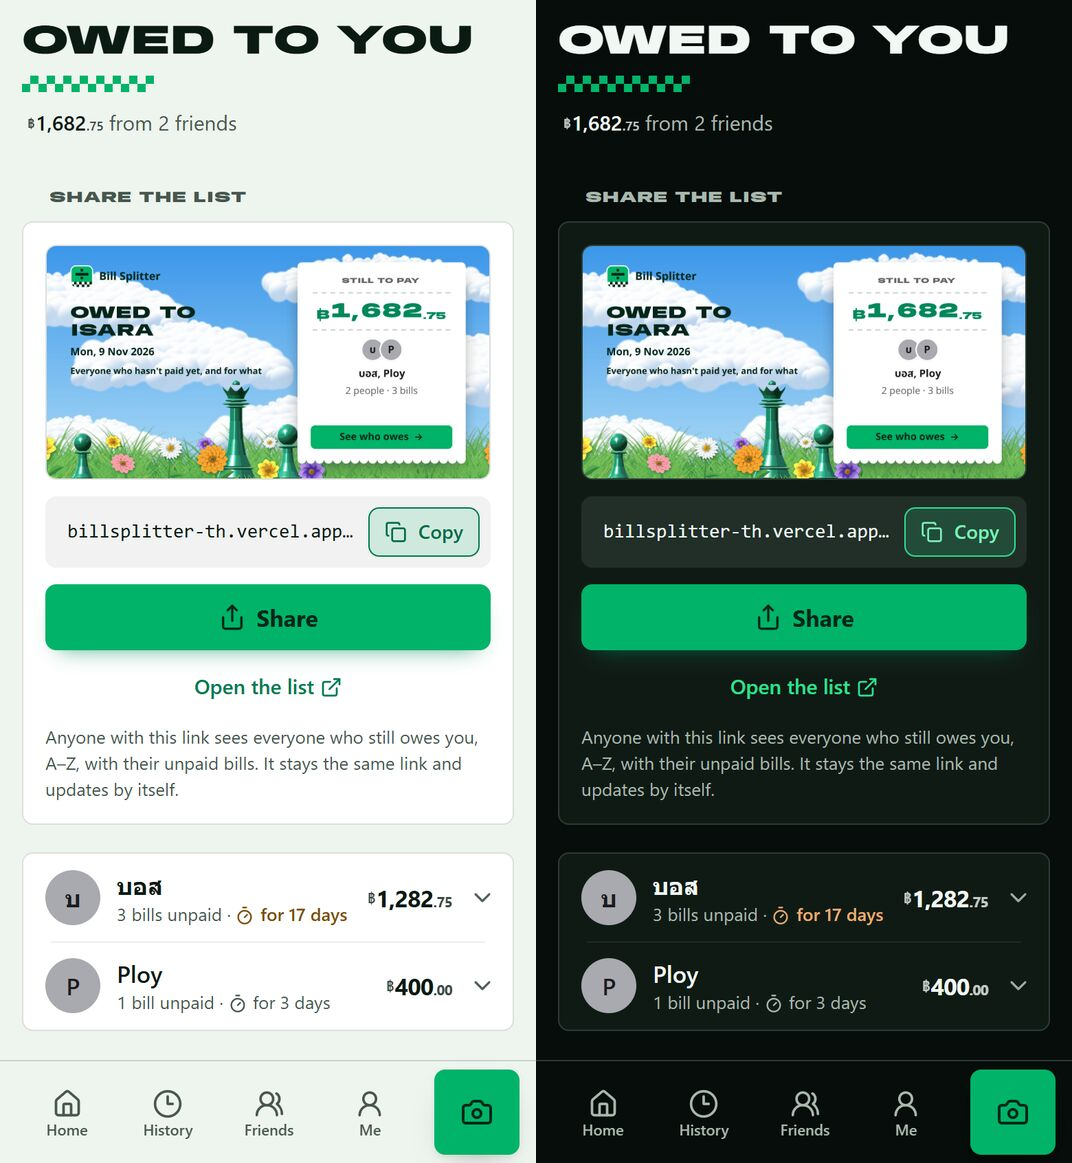
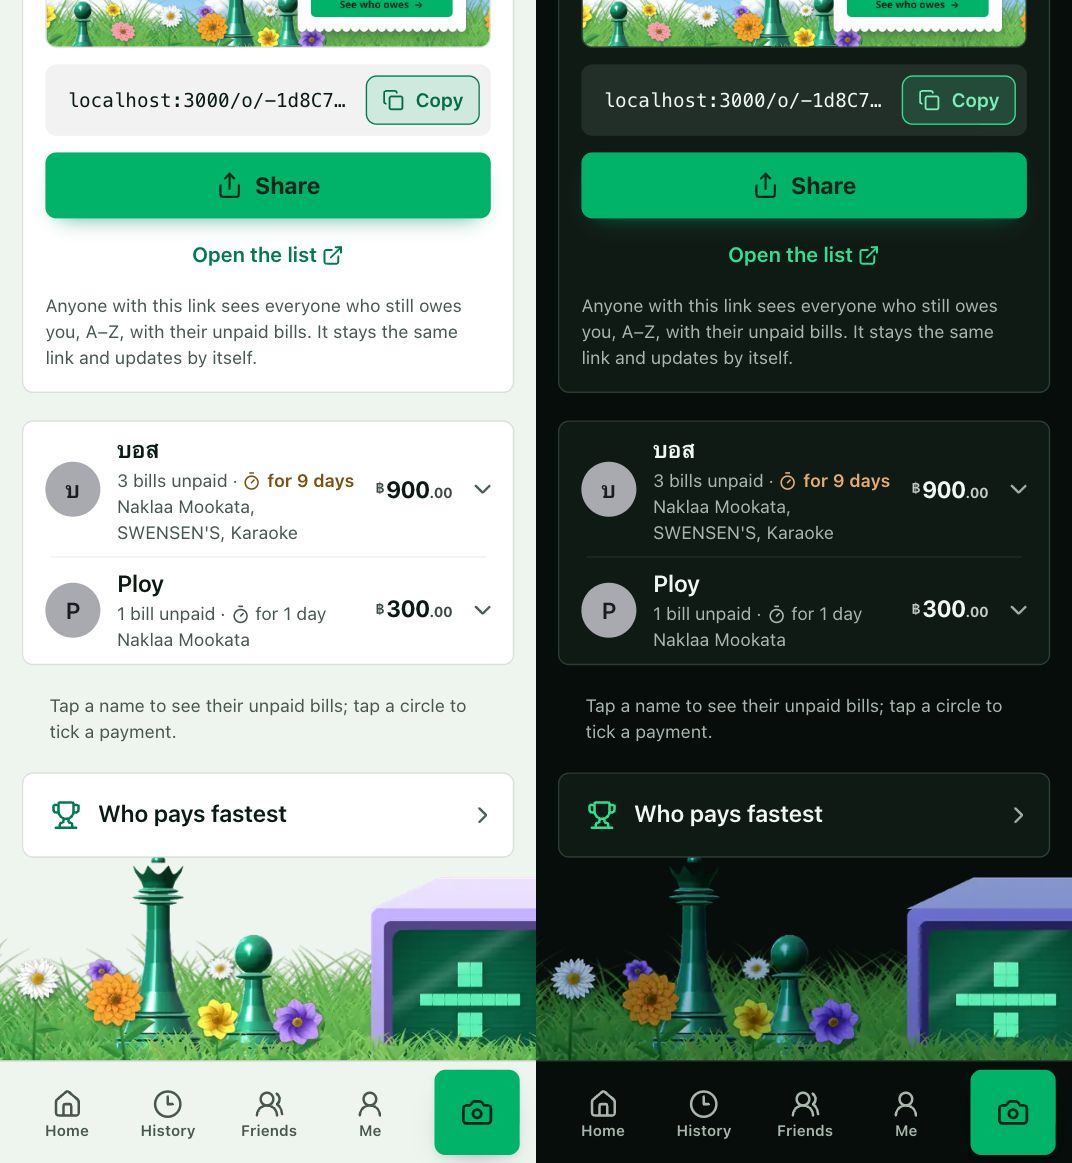
Friends: average and place in Who pays fastest; Owed to you lists bill names
- Tapping a friend (History or the Friends page) now also shows how fast
  they pay you and their place: "So far 1 day 8 hr on average · 2nd of 4
  in Who pays fastest", linking to it. New read-only
  GET /api/boards/{id}/fastest gives the ranking as data.
- Owed to you, on History's card and each friend's row, names the unpaid
  bills ("Naklaa Mookata, SWENSEN'S, Karaoke").
README and screenshots (history, friend, owed).

diff --git a/src/components/HistoryList.tsx b/src/components/HistoryList.tsx
@@ -1,15 +1,16 @@
 "use client";
 
-import { Check, CheckCircle2, ChevronRight, ReceiptText, Trash2, X } from "lucide-react";
+import { Check, CheckCircle2, ChevronRight, ReceiptText, Trash2, Trophy, X } from "lucide-react";
 import Link from "next/link";
 import { useSearchParams } from "next/navigation";
 import { useEffect, useState } from "react";
-import { byBillDate, deleteHistory, getHistory, type HistoryEntry } from "@/lib/client/storage";
+import { byBillDate, deleteHistory, getHistory, load, type HistoryEntry } from "@/lib/client/storage";
 import { askConfirm } from "@/lib/client/confirm";
 import { claimMySplits } from "@/lib/client/claim";
 import { refreshEntries } from "@/lib/client/historyRefresh";
 import { getFriends } from "@/lib/client/friendsStore";
 import { ME_ID } from "@/lib/friends";
+import { duration } from "@/lib/owed";
 import { formatMoney } from "@/lib/money";
 import { Avatar, ICON, Money, cx } from "./ui";
 import { langOf } from "@/lib/lang";
@@ -124,6 +125,7 @@ export function HistoryList() {
                 </>
               )}
             </p>
+            {person.id !== ME_ID && <FriendSpeed person={person} />}
           </div>
           <button type="button" className="icon-btn" aria-label="Show all splits" onClick={() => filterBy(null)}>
             <X size={22} {...ICON} />
@@ -306,4 +308,47 @@ function myMoney(entries: HistoryEntry[]): { spent: string[]; owedToYou: string[
 /** Same person across splits: same id, or (for names typed into one split) same name. */
 function samePerson(a: Member, b: Member): boolean {
   return a.id === b.id || a.name.trim().toLocaleLowerCase() === b.name.trim().toLocaleLowerCase();
+}
+
+type Ranked = { key: string; name: string; avgMs: number; paid: number; unpaid: number };
+const ordinal = (n: number) => `${n}${n % 100 >= 11 && n % 100 <= 13 ? "th" : (["th", "st", "nd", "rd"][n % 10] ?? "th")}`;
+const normName = (s: string) => s.normalize("NFC").trim().toLocaleLowerCase();
+
+/**
+ * Under "Splits with Mint": how fast they pay you on average and their place in Who pays
+ * fastest ("Pays in 3 hr 20 min on average · 1st of 4"), linking to it. Nothing until
+ * this phone has a list, or when they aren't ranked (hidden, or nothing paid or owed yet).
+ */
+function FriendSpeed({ person }: { person: Member }) {
+  const [board] = useState(() => load<string | null>("bs:board", null));
+  const [ranked, setRanked] = useState<{ me: Ranked; place: number; of: number } | null>(null);
+  useEffect(() => {
+    if (!board) return;
+    let cancelled = false;
+    fetch(`/api/boards/${board}/fastest`, { cache: "no-store" })
+      .then((r) => (r.ok ? (r.json() as Promise<{ times: Ranked[] }>) : null))
+      .then((d) => {
+        if (cancelled || !d) return;
+        const i = d.times.findIndex((t) => t.key === person.id || normName(t.name) === normName(person.name));
+        setRanked(i < 0 ? null : { me: d.times[i], place: i + 1, of: d.times.length });
+      })
+      .catch(() => {});
+    return () => {
+      cancelled = true;
+    };
+  }, [board, person.id, person.name]);
+  if (!board || !ranked) return null;
+  return (
+    <Link href={`/o/${board}/fastest`} className="mt-1 flex items-center gap-1.5 text-[13px] text-ink-2">
+      <Trophy size={14} {...ICON} aria-hidden className="shrink-0 text-accent" />
+      <span>
+        {ranked.me.unpaid > 0 ? "So far " : "Pays in "}
+        <b className="font-semibold text-ink">{duration(ranked.me.avgMs)}</b> on average ·{" "}
+        <b className="font-semibold text-accent">
+          {ordinal(ranked.place)} of {ranked.of}
+        </b>{" "}
+        in Who pays fastest
+      </span>
+    </Link>
+  );
 }

diff --git a/src/components/OwedLinks.tsx b/src/components/OwedLinks.tsx
@@ -11,7 +11,9 @@ import { ICON, Money } from "./ui";
 function owedSummary() {
   const friends = owedToYou(getHistory());
   const thb = friends.filter((f) => f.currency === "THB").reduce((s, f) => s + f.total, 0);
-  return { thb, people: new Set(friends.map((f) => f.key)).size };
+  // Every bill someone still owes on, newest first, each once.
+  const bills = [...new Map(friends.flatMap((f) => f.bills).sort((a, b) => Date.parse(b.date) - Date.parse(a.date)).map((b) => [b.id, b.title])).values()];
+  return { thb, people: new Set(friends.map((f) => f.key)).size, bills };
 }
 
 /** At the top of History: "Owed to you" (when friends owe you), "What I owe" (always, so friends can find it) and "Who pays fastest". */
@@ -36,6 +38,7 @@ export function OwedLinks() {
               <span className="block text-[13px] text-ink-2">
                 {owed.people} {owed.people === 1 ? "friend" : "friends"} still to pay
               </span>
+              {owed.bills.length > 0 && <span className="block text-[13px] text-ink-2">{owed.bills.join(", ")}</span>}
             </span>
             {owed.thb > 0 && <Money value={owed.thb} currency="THB" className="text-[17px] font-bold tracking-tight" />}
             <ChevronRight size={20} {...ICON} className="shrink-0 text-ink-3" aria-hidden />

diff --git a/src/app/api/boards/[id]/fastest/route.ts b/src/app/api/boards/[id]/fastest/route.ts
@@ -1,0 +1,24 @@
+import { fastestRanking } from "@/lib/server/board";
+import { jsonError, safely } from "@/lib/server/http";
+import { rateLimit } from "@/lib/server/ratelimit";
+import { isValidId } from "@/lib/server/redis";
+
+/**
+ * The Who pays fastest ranking as data, fastest first (what /o/{id}/fastest shows anyone
+ * with the link): { times: [{ key, name, avgMs, paid, unpaid }] }. Used for a friend's
+ * place and average when their splits are listed in History.
+ */
+export async function GET(req: Request, ctx: RouteContext<"/api/boards/[id]/fastest">) {
+  const limited = await rateLimit(req, "read");
+  if (limited) return limited;
+  const { id } = await ctx.params;
+  if (!isValidId(id)) return jsonError(404, "not_found", "List not found.");
+  return safely(async () => {
+    const r = await fastestRanking(id);
+    if (!r) return jsonError(404, "not_found", "List not found.");
+    return Response.json(
+      { times: r.times.map((p) => ({ key: p.key, name: p.look.name, avgMs: p.avgMs, paid: p.paid, unpaid: p.unpaid })) },
+      { headers: { "Cache-Control": "no-store" } },
+    );
+  });
+}

diff --git a/src/components/OwedToYou.tsx b/src/components/OwedToYou.tsx
@@ -198,6 +198,8 @@ function FriendRow({
               {w === 0 ? "since today" : `for ${dayCount(w)}`}
             </span>
           </span>
+          {/* Which bills, newest first. */}
+          <span className="block text-[13px] text-ink-2">{f.bills.map((b) => b.title).join(", ")}</span>
         </span>
         <Money value={f.total} currency={f.currency} className="text-[17px] font-bold tracking-tight" />
         <ChevronDown size={20} {...ICON} aria-hidden className={cx("shrink-0 text-ink-3", open && "rotate-180")} />

diff --git a/README.md b/README.md
@@ -52,8 +52,8 @@ The link preview friends see in chat:
 </p>
 
 **History and the phone**
-- **History**, newest bill date first; tap a person to see their splits and what they owe you (or you owe them). Tap yourself to see what you spent.
-- **Owed to you:** every friend who still owes you, with their total, their unpaid bills and how long they've waited ("for 16 days", amber after a week). Tick a bill paid (in full or part) right there, or **Mark all paid** for a friend.
+- **History**, newest bill date first; tap a person (or a friend on the Friends page) to see your splits with them, what they owe you (or you owe them), and how fast they pay you: their average and their place in **Who pays fastest** ("So far 1 day 8 hr on average · 2nd of 4"). Tap yourself to see what you spent.
+- **Owed to you:** every friend who still owes you, with their total, the names of their unpaid bills and how long they've waited ("for 16 days", amber after a week). Tick a bill paid (in full or part) right there, or **Mark all paid** for a friend.
 - **Who pays fastest:** its own page (History → Who pays fastest, or from "Owed to you", the shared list, and every bill a friend opens, next to What I owe), with the top five on a podium (gold, silver, bronze, mint and sky, with matching badges in the ranking), on the page and on its link preview. Friends are ranked by how long they take to pay, in days, hours and minutes from when the bill was shared to when they paid: the time printed on their transfer slip when there is one (even a slip sent in after you ticked them; older slips are read again for their time when you open the page), otherwise when you ticked them. A bill they haven't paid counts the time so far, so not paying moves them down. Someone still unpaid has a countdown to when a friend below them passes them ("Bank passes them in 3 days 19 hr"): their average keeps rising while a bill waits, and the page reorders when it runs out. On top, **Next place change** shows the soonest one as a race (Bank chasing Ploy along a track, Ploy wearing their place badge) with a clock ticking down each second ("3d 19:53:10"). Tap a friend for their average, fastest and slowest payment and every bill: when it was paid and how long it took, or how long it has waited. Ties go A–Z, and it's the same page for you and for anyone with the list. **Share** or **Copy link** sends the page (its preview shows the podium). On your phone, the pencil under a paid bill's amount changes **when someone paid** (say, from your bank statement): it shows how long that makes it, and the slip or tick time it replaces, with **Reset** to go back. **Hide** (only on your phone) leaves chosen friends out, or stops chosen bills counting (say, one you ticked long after it was paid), or sets when a bill really started (for bills shared before 10 Nov 2026, whose share time wasn't kept: **Use receipt times** fills it from the time printed on their receipt photo), in the ranking, the podium and the preview, for everyone. **Show on my bills**, in the same sheet, decides whether friends who open one of your bills get the link to this page (on until you switch it off). A changed start keeps the bill's own time in view under it ("Original: 9 Nov 2026, 13:25"), so you can compare without pressing **Reset**.
 - **What I owe:** on a friend's phone, everything they still owe, grouped by who they pay (to the organiser, or to each payer): the bills they've opened, plus the same organisers' other bills they still owe on, also ones whose link they never got. **Pay** lets them tick which bills to pay (or all), with one QR for that total, and one slip pays the ticked bills, oldest first ("Already paid?" at the top uploads a slip straight away). They pick their name once from everyone who still owes in those friends' bills; picking themselves to pay or upload a slip also tells the app.
 - **Who still owes (shareable list):** one link (`/o/…`, with its own preview card) showing everyone who still owes you, A–Z, with all their unpaid bills, how long each has gone unpaid ("Unpaid for 16 days", "9 days ago") and a link to **Who pays fastest**; each person can **Pay** (one QR for their total) or upload a slip there. Copy or share it from "Owed to you".
@@ -63,8 +63,9 @@ The link preview friends see in chat:
 - **Screen readers:** Thai names, titles and items are read with a Thai voice, progress is announced once per step, and Delete or Discard questions start on Cancel.
 
 <p>
-  <img src="docs/screenshots/history.jpg" alt="History, with Owed to you, What I owe and Who pays fastest at the top, light and dark" width="380">
-  <img src="docs/screenshots/owed.jpg" alt="Owed to you, with a link to share the list, light and dark" width="380">
+  <img src="docs/screenshots/history.jpg" alt="History, with Owed to you (and its bills), What I owe and Who pays fastest at the top, light and dark" width="380">
+  <img src="docs/screenshots/friend.jpg" alt="Splits with Ploy: what they owe you, their average time to pay and their place in Who pays fastest, light and dark" width="380">
+  <img src="docs/screenshots/owed.jpg" alt="Owed to you: each friend with their unpaid bills by name and how long they've waited, light and dark" width="380">
   <img src="docs/screenshots/pays-fastest.jpg" alt="Who pays fastest: the top five on a podium with Share and Copy link, Hide, and each friend's bills with how long they took to pay and a pencil to change it, light and dark" width="380">
   <img src="docs/screenshots/fastest-paid.jpg" alt="When did Mint pay?: the paid time changed from the tick's 20:00 to 13:05, paid after 17 hr, with the original time and Reset, light and dark" width="380">
   <img src="docs/screenshots/fastest-next.jpg" alt="Who pays fastest: Next place change on top as a race, Bank chasing Ploy for 2nd with a ticking clock, above the podium, light and dark" width="380">
